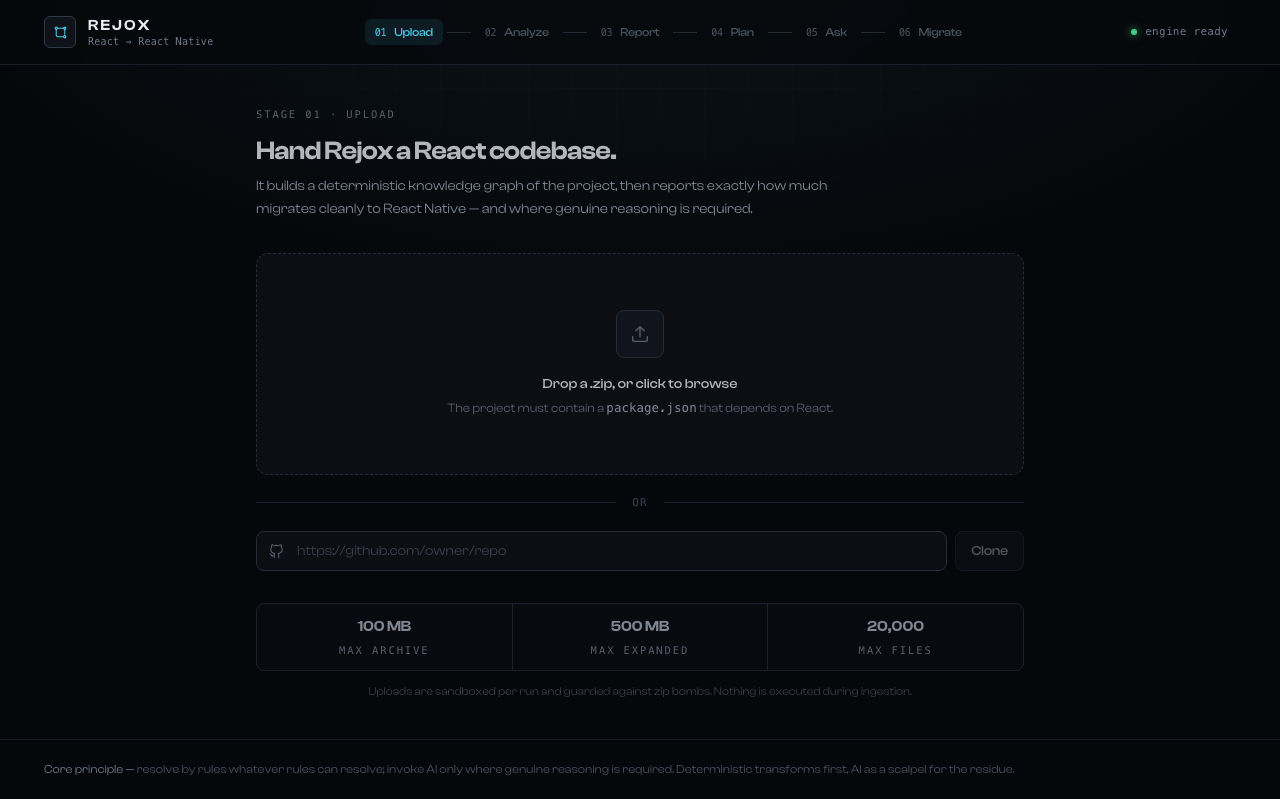
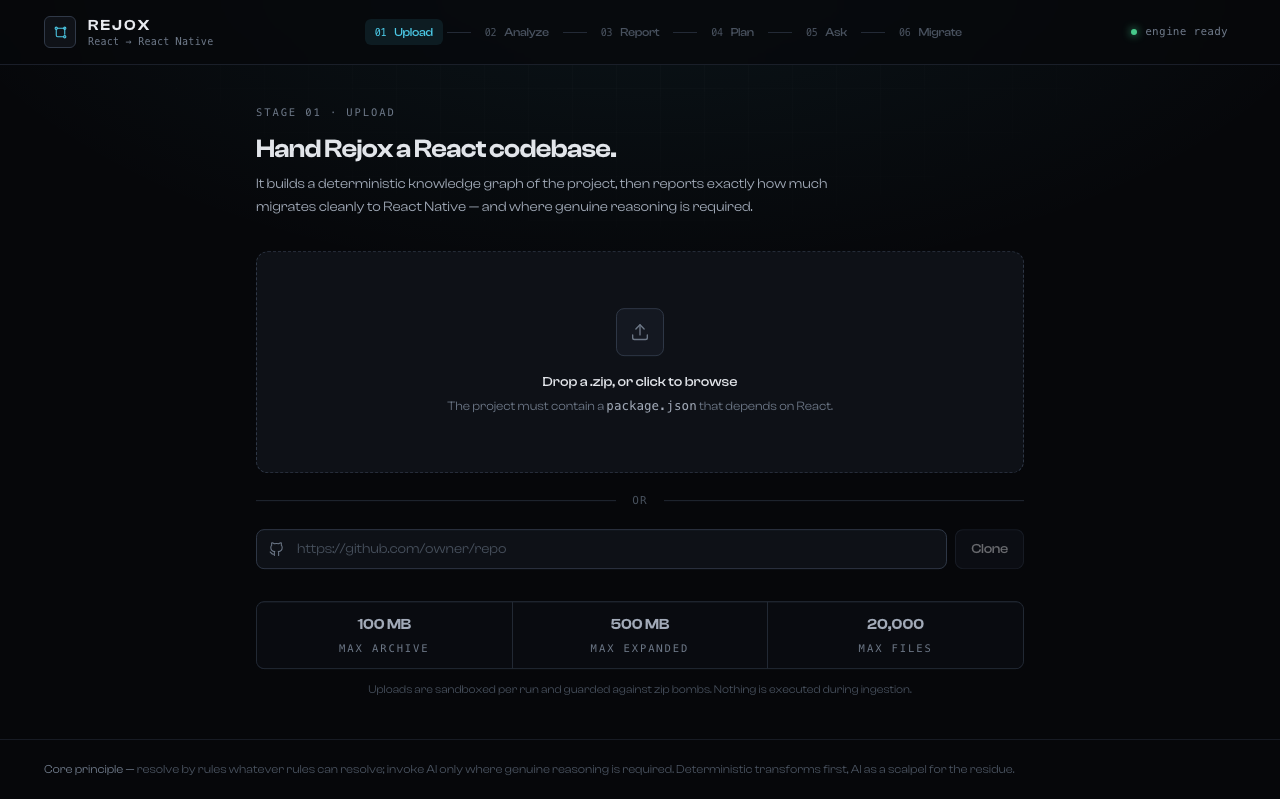
home page: CTA fix V1 - new header(architecture+docs)

diff --git a/frontend/src/screens/Home.css b/frontend/src/screens/Home.css
@@ -669,6 +669,17 @@
   padding: 16px var(--rx-frame-inset);
   border-top: 1px solid rgba(255, 255, 255, 0.05);
   font-family: var(--font-sans);
+  /* The CTA above is a 100vh section with its content vertically centred, so by
+     construction a tall band of dead space sits below the button before this
+     footer. We lift the footer up into that dead space with a negative top
+     margin — the footer's own top spacing — leaving the CTA pixel-identical.
+     The lift is capped at just under the footer's own height: the CTA box still
+     reserves a full 100vh, so pulling the footer up by more than its height
+     would raise its bottom edge above the CTA's box bottom and leave a black
+     strip beneath the footer. The footer is a deterministic ~52.5px tall, so
+     -50px reclaims very nearly a full footer-height of the gap while staying
+     flush with the page's bottom edge (a ~2.5px safety buffer). */
+  margin-top: -50px;
 }
 .rx-footer-mark {
   font-size: 13px;

diff --git a/frontend/src/screens/Home.tsx b/frontend/src/screens/Home.tsx
@@ -47,7 +47,7 @@ gsap.registerPlugin(ScrollToPlugin, CustomEase)
 // it never collides with the Scene 02 module's 'rxHouse'.
 const HOME_HOUSE_EASE = CustomEase.create('rxHomeHouse', 'M0,0 C0.22,1 0.36,1 1,1')
 
-const NAV_ITEMS = ['Home', 'About', 'Docs', 'Features']
+const NAV_ITEMS = ['Home', 'Architecture', 'Docs']
 
 function prefersReducedMotion(): boolean {
   return (
